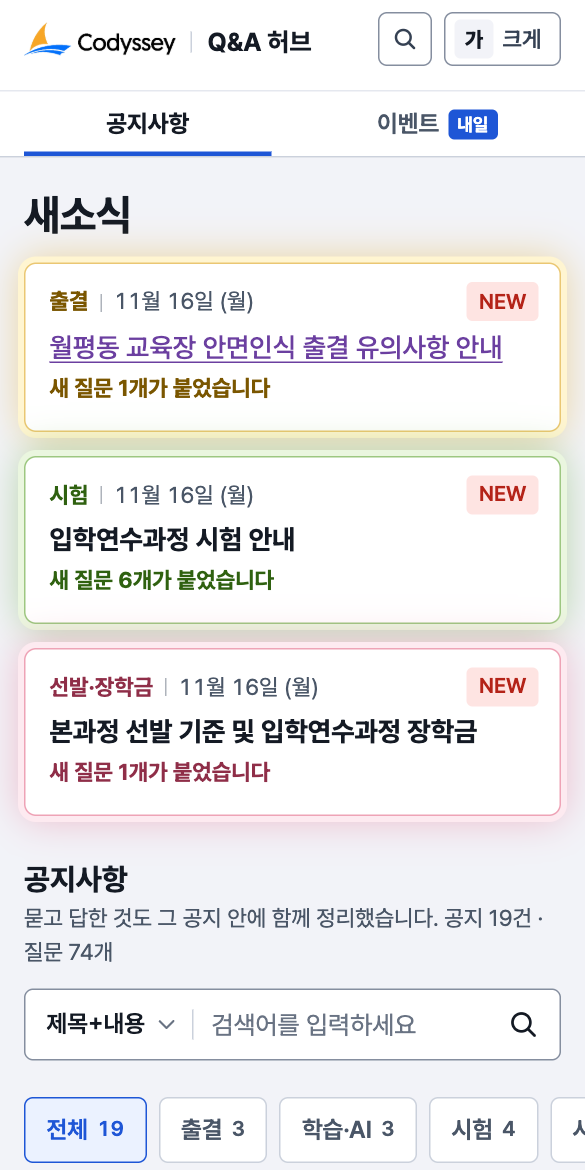
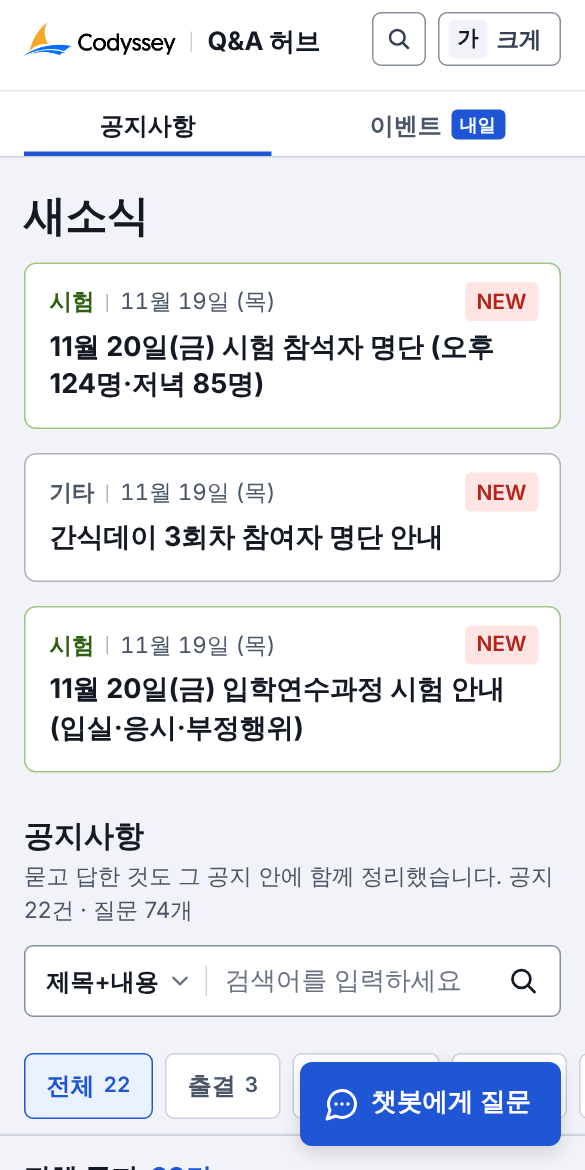
README: 이모지 빼고 지금 상태에 맞게 고침
- 공지 22건, 디스코드 공지 13건으로 개수 갱신
- 새소식 카드 설명과 디자인 항목을 그림자·번지는 빛 없는 모습으로
- 공지사항 화면 스크린샷(PC·휴대폰)을 새로 찍음

Claude-Session: https://claude.ai/code/session_013sPcTRdrTqiArEFcXF7Ao8

diff --git a/README.md b/README.md
@@ -9,7 +9,7 @@
 
 **[사이트 바로가기 →](https://sangukjeon.github.io/Codyssey_QnA/)**
 
-`공지 19건` · `공지 안에 묻고 답한 것 74개` · `이벤트 일정` · `HTML·CSS·JS만 사용`
+`공지 22건` · `공지 안에 묻고 답한 것 74개` · `이벤트 일정` · `HTML·CSS·JS만 사용`
 
 </div>
 
@@ -33,21 +33,21 @@
 
 디스코드에서는 공지도, 문의 답변도 글자만 줄줄이 올라옵니다. 이 사이트는 그것을 **공지사항**과 **이벤트** 두 공간으로 나누고, 흩어진 문의 답변은 **그 공지 안에** 묶어 둡니다.
 
-| | 기능 | 설명 |
-| :---: | --- | --- |
-| 🗂 | **두 공간** | 맨 위 메뉴가 공지사항 · 이벤트입니다. 이벤트 옆에는 가장 가까운 일정까지 남은 날(내일 · D-7)이 붙습니다. |
-| 🆕 | **새소식** | 가장 최근에 바뀐 공지 3건을 카드로 맨 위에 보여 줍니다(목록 줄과 같은 흰 판에, 분류 색이 테두리 뒤로 번집니다). 새 공지뿐 아니라 "새 질문 6개가 붙었습니다"처럼 그 공지에 새로 묶인 질문도 알려 줍니다. 같은 날 여러 건이면 분류가 겹치지 않게 고르고, 7일 동안 NEW가 붙습니다. |
-| 📋 | **공지 목록** | 공지만 제목 한 줄씩 보여 줍니다(분류 · 제목 · 질문 수 · 업데이트한 날). 중요 공지가 맨 위, 그다음은 최근에 바뀐 순입니다. 분류 탭(전체 · 출결 · 학습·AI · 시험 · 시설·장비 · 선발·장학금 · 운영 지침 · 기타)으로 좁힐 수 있고, 스크롤하면 탭이 위에 붙어 따라옵니다. |
-| 📑 | **공지 하나에 다** | 공지를 열면 본문 아래에 **"이 공지에 대해 묻고 답한 것"**이 이어집니다. 질문 줄을 누르면 그 자리에서 답이 펼쳐지고("모두 펼치기"도 있음), 긴 공지에는 목차가, 조건은 표로 정리돼 있습니다. 옆 칸에는 다른 공지에 정리된 관련 질문과 같은 분류의 다른 공지가 붙습니다. |
-| 🟣 | **안 본 글 · 본 글** | 제목이 검은색 · 굵게면 아직 안 본 글, 보라색에 밑줄이 있으면 이미 본 글입니다(공지를 열었거나 질문의 답을 본 글). 방문한 링크와 같은 약속이고, 이 브라우저에만 적어 둡니다. |
-| 🔍 | **제목+내용 검색** | 검색 범위(제목+내용 · 제목 · 내용)를 고르고 찾습니다. 공지 본문뿐 아니라 그 공지에 묶인 질문과 답까지 찾아서, 공지 줄 아래에 내용 미리 보기와 **맞은 질문**을 함께 보여 줍니다(찾은 낱말 강조). 띄어쓰기·기호가 달라도 찾고("입실퇴실" → "입실·퇴실"), 맨 위에는 "가장 가까운 답"을 바로 펼쳐 보여 줍니다. 글자 그대로 들어 있는 공지가 없으면 "혹시 이 질문인가요?"로 뜻이 가까운 질문을 알려 줍니다. |
-| 📅 | **이벤트** | 시험 · 과제 마감 · 과정 종료처럼 날짜가 정해진 일정을 가까운 순으로, D-day와 함께 보여 줍니다. 지난 일정은 아래로 내려가고, 옆 칸에는 행사 참여 · 신청에 대해 묻고 답한 것이 붙습니다. |
-| 💬 | **안내 챗봇** | 줄임말(비번·엘베·디코)과 구어체를 알아듣고 답과 근거 공지를 보여 줍니다. 확신이 낮으면 "혹시 이 질문인가요?" 하고 후보를 제시합니다. |
-| 🔗 | **링크 복사** | 공지(`#notice/12`)와 질문(`#faq/24`)마다 "링크 복사"가 있습니다. 질문 링크를 열면 그 질문이 든 공지가 열리고, 그 질문이 펼쳐진 자리로 내려갑니다. 디스코드에서 같은 질문에 링크로 답할 때 편합니다. |
-| 🔠 | **글자 크게** | 맨 위 "글자 크게" 버튼을 누르면 모든 글자가 125%로 커지고, 다음에 와도 그대로 유지됩니다. 브라우저의 글꼴 크기 설정도 따릅니다. |
-| 🔎 | **어디서든 검색** | 맨 위 "검색" 버튼은 어느 화면에서든 검색창으로 데려갑니다. 아래로 많이 내려가면 '맨 위로' 버튼이 나타납니다. |
-| 🦶 | **발(맨 아래)** | 화면 맨 아래에 코디세이 연락처(위치 · 전화 · 메일 · 공식 사이트)와 이 사이트 안내, 맨 밑줄에 가장 최근 업데이트 날짜를 적어 둡니다. |
-| 📱 | **앱처럼 설치** | 휴대폰에서 "홈 화면에 추가" 또는 "앱 설치"로 바로가기를 만들 수 있습니다. |
+| 기능 | 설명 |
+| --- | --- |
+| **두 공간** | 맨 위 메뉴가 공지사항 · 이벤트입니다. 이벤트 옆에는 가장 가까운 일정까지 남은 날(내일 · D-7)이 붙습니다. |
+| **새소식** | 가장 최근에 바뀐 공지 3건을 카드로 맨 위에 보여 줍니다(목록 줄과 같은 흰 판에 분류 색 테두리만 두르고, 그림자와 번지는 빛은 쓰지 않습니다). 새 공지뿐 아니라 "새 질문 6개가 붙었습니다"처럼 그 공지에 새로 묶인 질문도 알려 줍니다. 같은 날 여러 건이면 분류가 겹치지 않게 고르고, 7일 동안 NEW가 붙습니다. |
+| **공지 목록** | 공지만 제목 한 줄씩 보여 줍니다(분류 · 제목 · 질문 수 · 업데이트한 날). 중요 공지가 맨 위, 그다음은 최근에 바뀐 순입니다. 분류 탭(전체 · 출결 · 학습·AI · 시험 · 시설·장비 · 선발·장학금 · 운영 지침 · 기타)으로 좁힐 수 있고, 스크롤하면 탭이 위에 붙어 따라옵니다. |
+| **공지 하나에 다** | 공지를 열면 본문 아래에 **"이 공지에 대해 묻고 답한 것"**이 이어집니다. 질문 줄을 누르면 그 자리에서 답이 펼쳐지고("모두 펼치기"도 있음), 긴 공지에는 목차가, 조건은 표로 정리돼 있습니다. 옆 칸에는 다른 공지에 정리된 관련 질문과 같은 분류의 다른 공지가 붙습니다. |
+| **안 본 글 · 본 글** | 제목이 검은색 · 굵게면 아직 안 본 글, 보라색에 밑줄이 있으면 이미 본 글입니다(공지를 열었거나 질문의 답을 본 글). 방문한 링크와 같은 약속이고, 이 브라우저에만 적어 둡니다. |
+| **제목+내용 검색** | 검색 범위(제목+내용 · 제목 · 내용)를 고르고 찾습니다. 공지 본문뿐 아니라 그 공지에 묶인 질문과 답까지 찾아서, 공지 줄 아래에 내용 미리 보기와 **맞은 질문**을 함께 보여 줍니다(찾은 낱말 강조). 띄어쓰기·기호가 달라도 찾고("입실퇴실" → "입실·퇴실"), 맨 위에는 "가장 가까운 답"을 바로 펼쳐 보여 줍니다. 글자 그대로 들어 있는 공지가 없으면 "혹시 이 질문인가요?"로 뜻이 가까운 질문을 알려 줍니다. |
+| **이벤트** | 시험 · 과제 마감 · 과정 종료처럼 날짜가 정해진 일정을 가까운 순으로, D-day와 함께 보여 줍니다. 지난 일정은 아래로 내려가고, 옆 칸에는 행사 참여 · 신청에 대해 묻고 답한 것이 붙습니다. |
+| **안내 챗봇** | 줄임말(비번·엘베·디코)과 구어체를 알아듣고 답과 근거 공지를 보여 줍니다. 확신이 낮으면 "혹시 이 질문인가요?" 하고 후보를 제시합니다. |
+| **링크 복사** | 공지(`#notice/12`)와 질문(`#faq/24`)마다 "링크 복사"가 있습니다. 질문 링크를 열면 그 질문이 든 공지가 열리고, 그 질문이 펼쳐진 자리로 내려갑니다. 디스코드에서 같은 질문에 링크로 답할 때 편합니다. |
+| **글자 크게** | 맨 위 "글자 크게" 버튼을 누르면 모든 글자가 125%로 커지고, 다음에 와도 그대로 유지됩니다. 브라우저의 글꼴 크기 설정도 따릅니다. |
+| **어디서든 검색** | 맨 위 "검색" 버튼은 어느 화면에서든 검색창으로 데려갑니다. 아래로 많이 내려가면 '맨 위로' 버튼이 나타납니다. |
+| **발(맨 아래)** | 화면 맨 아래에 코디세이 연락처(위치 · 전화 · 메일 · 공식 사이트)와 이 사이트 안내, 맨 밑줄에 가장 최근 업데이트 날짜를 적어 둡니다. |
+| **앱처럼 설치** | 휴대폰에서 "홈 화면에 추가" 또는 "앱 설치"로 바로가기를 만들 수 있습니다. |
 
 <br>
 
@@ -55,7 +55,7 @@
 
 | 출처 | 반영한 내용 |
 | --- | --- |
-| 디스코드 `allinone-공지사항` | 안면인식 출결, 시설 이용 시간·엘리베이터, Wi-Fi, 사물함, AI 토큰, 시험 안내 등 공지 10건 |
+| 디스코드 `allinone-공지사항` | 안면인식 출결, 시설 이용 시간·엘리베이터, Wi-Fi, 사물함, AI 토큰, 시험 안내, 11/20 시험 안내 등 공지 13건 |
 | 입학연수과정 오리엔테이션 자료 (10/28) | 과정 일정, 본과정 선발 기준, 장학금 요건·중복 수혜, 교육장 이용, 퍼실리테이터·네이토, 동료평가 가이드, 운영 지침, 위급 상황 대응 |
 | 시험 기능 학습자 가이드 | 접수부터 결과 확인까지, 답안 제출 방식, 재제출 규칙, 시험 네이토 |
 | AI 네이티브 과정 교육시설 가이드북 | PC·정보보안 수칙만 반영 (올인원 과정 적용 여부 확인 필요 표시) |
@@ -218,7 +218,7 @@ sw.js                    앱 설치용 서비스 워커 (요청을 가로채지 
 
 - **글꼴:** Pretendard, 본문 17px · 가장 작은 글자 14px, 크기는 모두 `rem` (글자 크게 = 125%)
 - **색:** 파란색 `#1E56D6` 하나와 푸른 기 도는 회색, 분류마다 연한 색. 글 제목은 검은색, 이미 본 글의 제목만 보라색 `#6B3FA0` + 밑줄
-- **형태:** 연회색 바탕 위 흰 카드, 1px 테두리, 조금 각진 모서리(태그 4 · 단추와 목록 줄 6 · 카드 8px). 그림자는 떠 있는 것(챗봇 버튼·창, 알림)과 새소식 카드의 번지는 분류 색에만 씁니다
+- **형태:** 연회색 바탕 위 흰 카드, 1px 테두리, 조금 각진 모서리(태그 4 · 단추와 목록 줄 6 · 카드 8px). 그림자는 떠 있는 것(챗봇 버튼·창, 알림)에만 씁니다. 새소식 카드는 분류 색 테두리로만 구분합니다
 - **짜임:** 게임 새소식 게시판처럼 위에 새 글 카드, 아래에 분류 탭 · 검색 · 공지 제목 목록. 질문은 공지 안으로, 일정은 이벤트 화면으로 (휴대폰은 카드와 목록 줄을 세로로 쌓음)
 - **접근성:** 글자 대비 4.5:1 이상 (보조 글자는 7:1 가까이), 입력칸 테두리·화살표 3:1 이상, 말줄임 없이 끝까지 표시, 누르는 영역 44px 이상, 키보드 포커스 표시, 이모지 대신 SVG 아이콘
 
